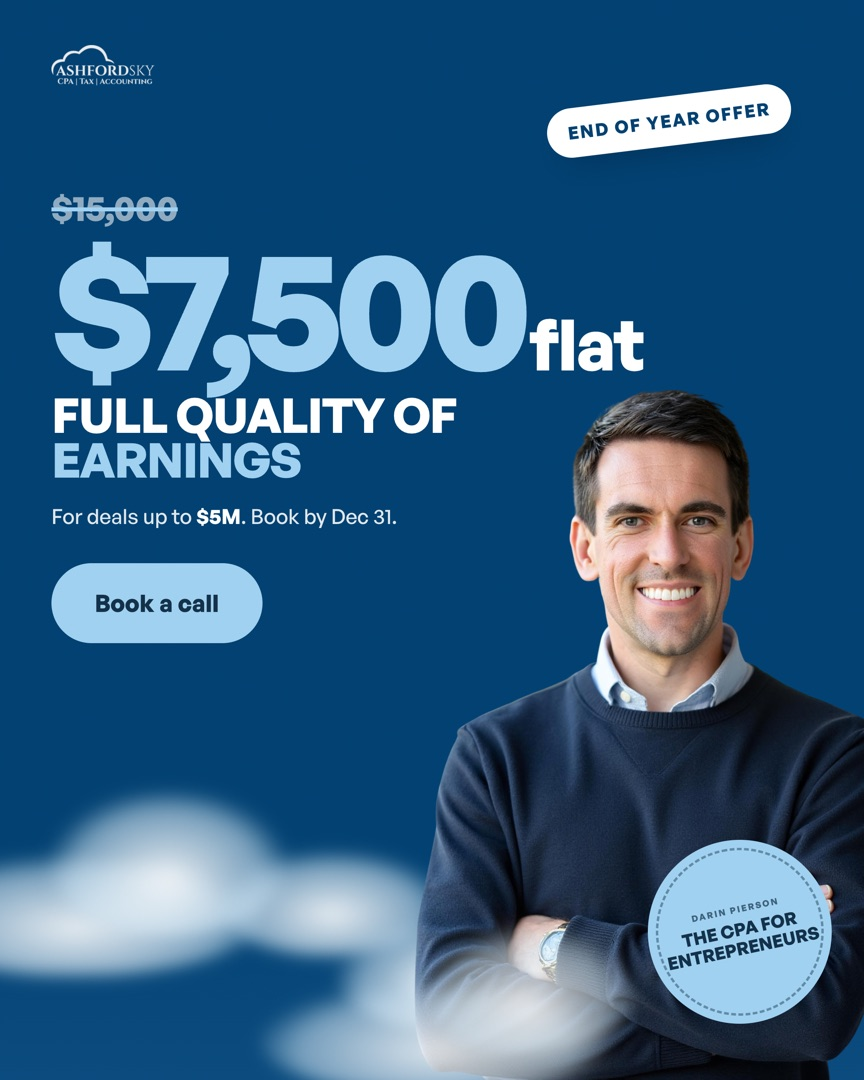
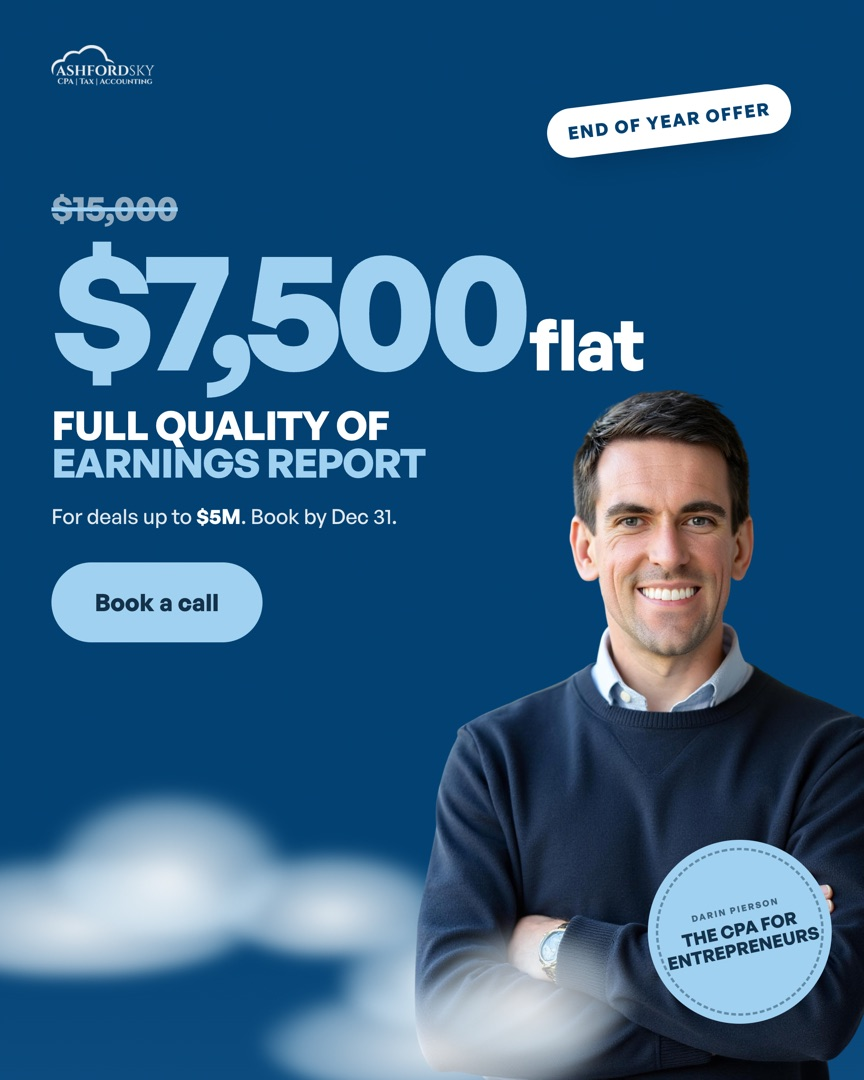
Ashford Sky: QoE ad 1 creative + rewritten ad captions (#62)
* Ashford Sky: updated QoE ad 1 creative

* Ashford Sky: rewritten offer ad captions in feed mockup

* Fix caption escaping in feed mockup

---------

Changed region(s): [[0.0625, 0.3667, 0.5312, 0.4583], [0.1875, 0.55, 0.25, 0.5806], [0.125, 0.55, 0.1562, 0.5806]]

diff --git a/ashford-sky/meta-previews/2026-10-offers/index.html b/ashford-sky/meta-previews/2026-10-offers/index.html
@@ -61,30 +61,65 @@ header p{color:#5b6b7c;margin-top:6px}
 
 <script>
 const ADS = {
- qoe: [
-  {label:"QoE ad 1: The inventory count", img:"qoe-1-price.jpg",
-   text:"Our full quality of earnings report is $7,500 flat for deals up to $5 million when you book by December 31. Our regular fee is $15,000.\nOn one retail deal we worked, the seller's books showed about $1.2 million in inventory. The physical count came back at about $490,000.\nA QoE catches gaps like that before you sign. We tie the seller's numbers to their bank statements and tax returns and test every add-back. Then we set your working capital target and flag what your lender will ask about.\nBook a call to walk through your deal. If you'd rather ask a question first, send us a message.",
-   hl:"The books said $1.2M in inventory. The count said $490K.", ds:"Full QoE, $7,500 flat through Dec 31", cta:"Book now"},
-  {label:"QoE ad 2: The add-back", img:"qoe-3-know-what-youre-buying.jpg",
-   text:"Our full quality of earnings report is $7,500 flat for deals up to $5 million when you book by December 31. Our regular fee is $15,000.\nOn a franchise deal, one of the sellers was running a $100,000 \"marketing\" expense through the business. When we dug in, it looked tied to their personal life.\nAdd-backs like that look fine on a spreadsheet and fall apart when a lender asks for proof. We document every add-back with the support behind it, so you know which ones hold up before you sign.\nBook a call, or send us a message if you'd like to ask a question first.",
-   hl:"That $100K \"marketing\" add-back looked personal when we dug in", ds:"Full QoE, $7,500 flat through Dec 31", cta:"Book now"},
-  {label:"QoE ad 3: Half our usual fee", img:"qoe-2-600.jpg",
-   text:"Through December 31, our full quality of earnings report is $7,500 flat for deals up to $5 million. That's half our regular $15,000 fee.\nWe've completed over 600 QoEs. Every report includes proof of cash, a tax return reconciliation, documented add-backs, a working capital target, a customer concentration review, a projection model and the full Q&A with the seller.\nIf you only need the cash checked, proof of cash on its own is $2,500.\nBook a call and tell us about the business you're buying.",
-   hl:"Get a full QoE for $7,500, half our usual fee", ds:"Over 600 QoEs completed. Book by Dec 31.", cta:"Book now"}
+ "qoe": [
+  {
+   "label": "QoE ad 1: The inventory count",
+   "img": "qoe-1-price.jpg",
+   "text": "Buying a business under $5M? Our full quality of earnings report is $7,500 flat through Dec 31, half our usual $15,000.\nOn one retail deal we worked, the seller's books said there was about $1.2 million of inventory. When it was counted, there was about $490,000. A gap like that changes what the business is worth and what you should pay for it.\nThat's what we check before you sign. We compare the seller's numbers to their bank statements and tax returns, so you know what the business really earns and what it really owns.\nBook a call and tell us about your deal. If you'd rather ask a question first, just send us a message.",
+   "hl": "Books said $1.2M. The count said $490K.",
+   "ds": "Full QoE, $7,500 flat through Dec 31",
+   "cta": "Book now"
+  },
+  {
+   "label": "QoE ad 2: The add-back",
+   "img": "qoe-3-know-what-youre-buying.jpg",
+   "text": "Buying a business under $5M? Our full quality of earnings report is $7,500 flat through Dec 31, half our usual $15,000.\nOn a franchise deal we worked, one of the sellers was running about $100,000 of \"marketing\" through the business, and it looked tied to their personal life. Sellers add costs like that back to show a higher profit. If there's no paperwork behind it, your lender won't accept it, and the profit your price is based on shrinks.\nWe go through every cost the seller wants added back and look for the proof behind each one, so the number you're paying for holds up.\nBook a call and tell us about your deal. If you'd rather ask a question first, just send us a message.",
+   "hl": "Will the seller's add-backs hold up?",
+   "ds": "Full QoE, $7,500 flat through Dec 31",
+   "cta": "Book now"
+  },
+  {
+   "label": "QoE ad 3: 600+ reports",
+   "img": "qoe-2-600.jpg",
+   "text": "Buying a business under $5M? Our full quality of earnings report is $7,500 flat through Dec 31, half our usual $15,000.\nWe've done over 600 of these reports, so we know where small business books tend to go wrong. We check the seller's cash against their bank statements, match their books to their tax returns and find the costs that make profit look better than it is. You also find out how much of the revenue depends on a few customers.\nIf you only need the cash checked early in a deal, that's $2,500 on its own.\nBook a call and tell us about the business you're buying.",
+   "hl": "A full QoE for $7,500, half our fee",
+   "ds": "Over 600 QoEs completed. Book by Dec 31.",
+   "cta": "Book now"
+  }
  ],
- tax: [
-  {label:"Tax plan ad 1: Bought a business this year", img:"tax-1-bought-a-business.jpg",
-   text:"Our year-end tax plan for new business owners is $4,000, and you can keep your current accountant. If you move your accounting and tax to us later, we credit the full $4,000.\nA franchise owner we work with funded his business with a ROBS rollover. He expected the startup losses to lower his personal tax bill that year. Because of how the business was set up, they couldn't.\nNew owners often find surprises like that only after the year closes. Our plan reviews how your purchase price was split and what that means for write-offs. It also covers how you're paying yourself, your entity setup and your estimated payments, with the moves to make before December 31.\nBook a call and bring your closing statement.",
-   hl:"Bought a business this year? Get a tax plan before Dec 31.", ds:"$4,000, credited if you stay with us", cta:"Book now"},
-  {label:"Tax plan ad 2: Two or more franchise locations", img:"tax-3-franchise-locations.jpg",
-   text:"Our year-end tax plan is $4,000 for owners of two or more franchise locations, and you can keep your current accountant.\nYou qualify if you run more than one location or you're opening another one. Each new location brings its own franchise fee and startup costs, and the fee gets written off over time instead of all in the year you pay it. Owners who expect a big first-year write-off are often surprised.\nWe look at each location's setup, your startup costs, how you're paying yourself and your estimated payments. You get one written plan for every location. If you move your accounting and tax to us later, we credit the full $4,000.\nBook a call and bring last year's returns.",
-   hl:"Do you qualify for a multi-location tax plan?", ds:"For owners of 2+ franchise locations", cta:"Learn more"},
-  {label:"Tax plan ad 3: The franchise fee", img:"tax-4-next-location.jpg",
-   text:"Our year-end tax plan for owners of two or more franchise locations is $4,000, and you can keep your current accountant. If you move your accounting and tax to us later, we credit the full $4,000.\nIf you paid an up-front franchise fee for a new location this year, you can't write it all off this year. The fee gets spread out over time, so year one needs every other startup cost captured before the books close.\nOur plan looks at each location's setup, your startup costs, how you're paying yourself and your estimated payments. You get one written plan for every location, with the moves to make before December 31.\nBook a call and bring last year's returns.",
-   hl:"Opened another location this year? Plan your taxes before Dec 31.", ds:"$4,000, credited if you stay with us", cta:"Book now"},
-  {label:"Tax plan ad 4: Money-back version (option B)", img:"tax-2-keep-your-accountant.jpg",
-   text:"Our year-end tax plan is $4,000, and if we don't find at least $8,000 in tax savings, twice our fee, you get your $4,000 back.\nYou qualify if you closed on a business in 2026 and nobody has planned your taxes since. If you bought the assets, how the purchase price was split between equipment, goodwill and other assets changes what you can write off and when. That split is usually in your purchase agreement, and your plan should use it.\nOur plan covers your purchase price split, owner pay, entity setup and estimated payments. You can keep your current accountant.\nBook a call and bring your closing statement.",
-   hl:"$8,000 in tax savings, or your $4,000 back", ds:"Keep your accountant. Book by Dec 31.", cta:"Book now"}
+ "tax": [
+  {
+   "label": "Tax plan ad 1: Bought a business this year",
+   "img": "tax-1-bought-a-business.jpg",
+   "text": "Bought a business this year? Get a written year-end tax plan for $4,000, and keep your current accountant.\nA franchise owner we work with funded his business with a ROBS rollover, which means using retirement savings to buy it. He expected the startup losses to lower his personal tax bill that year, but because of how the business was set up, they couldn't.\nThe first year of owning a business brings decisions a normal year doesn't. We look at how your purchase price was split, how you're paying yourself and what you owe in estimated taxes. Then you get a written plan of what to do before December 31. If you move your accounting and tax to us later, we credit the full $4,000.\nBook a call and bring your closing statement.",
+   "hl": "Bought a business this year?",
+   "ds": "$4,000, credited if you stay with us",
+   "cta": "Book now"
+  },
+  {
+   "label": "Tax plan ad 2: Two or more franchise locations",
+   "img": "tax-3-franchise-locations.jpg",
+   "text": "Own two or more franchise locations? Get one year-end tax plan for all of them for $4,000.\nWhen locations get added one at a time, each one usually ends up with its own entity, payroll and books. That can make sense, but it's worth checking whether it still does once you're running several.\nWe look at how the locations are owned, how you pay yourself across them and what you've invested this year. Then you get one written plan of what to do before December 31, and you can keep your current accountant. If you move your accounting and tax to us later, we credit the full $4,000.\nBook a call and bring last year's returns.",
+   "hl": "Own two or more franchise locations?",
+   "ds": "One tax plan for all of them",
+   "cta": "Learn more"
+  },
+  {
+   "label": "Tax plan ad 3: The franchise fee",
+   "img": "tax-4-next-location.jpg",
+   "text": "Opened another franchise location this year? Get one year-end tax plan for all your locations for $4,000.\nA lot of owners expect to write off the franchise fee in the year they pay it, but the tax rules spread the up-front fee over 15 years. That means your first-year savings have to come from the build-out, the equipment and the other startup costs.\nWe look at all of your locations together and give you one written plan of what to do before December 31. You can keep your current accountant. If you move your accounting and tax to us later, we credit the full $4,000.\nBook a call and bring last year's returns.",
+   "hl": "Opened another location this year?",
+   "ds": "$4,000, credited if you stay with us",
+   "cta": "Book now"
+  },
+  {
+   "label": "Tax plan ad 4: Money-back version (needs Darin's sign-off)",
+   "img": "tax-2-keep-your-accountant.jpg",
+   "text": "Closed on a business in 2026? Our $4,000 tax plan finds at least $8,000 in savings, or you get your fee back.\nIf you bought the business's assets, your purchase agreement split the price between things like equipment and goodwill. That split decides how much you can write off this year and how much has to wait. Equipment can often be written off right away, while goodwill is spread over 15 years.\nWe read your agreement and look at how you're paying yourself, then give you a written plan of what to do before December 31. You can keep your current accountant.\nBook a call and bring your closing statement.",
+   "hl": "$8,000 in savings or your fee back",
+   "ds": "Keep your accountant. Book by Dec 31.",
+   "cta": "Learn more"
+  }
  ]
 };
 const FILL = ["", "b", "c"];
